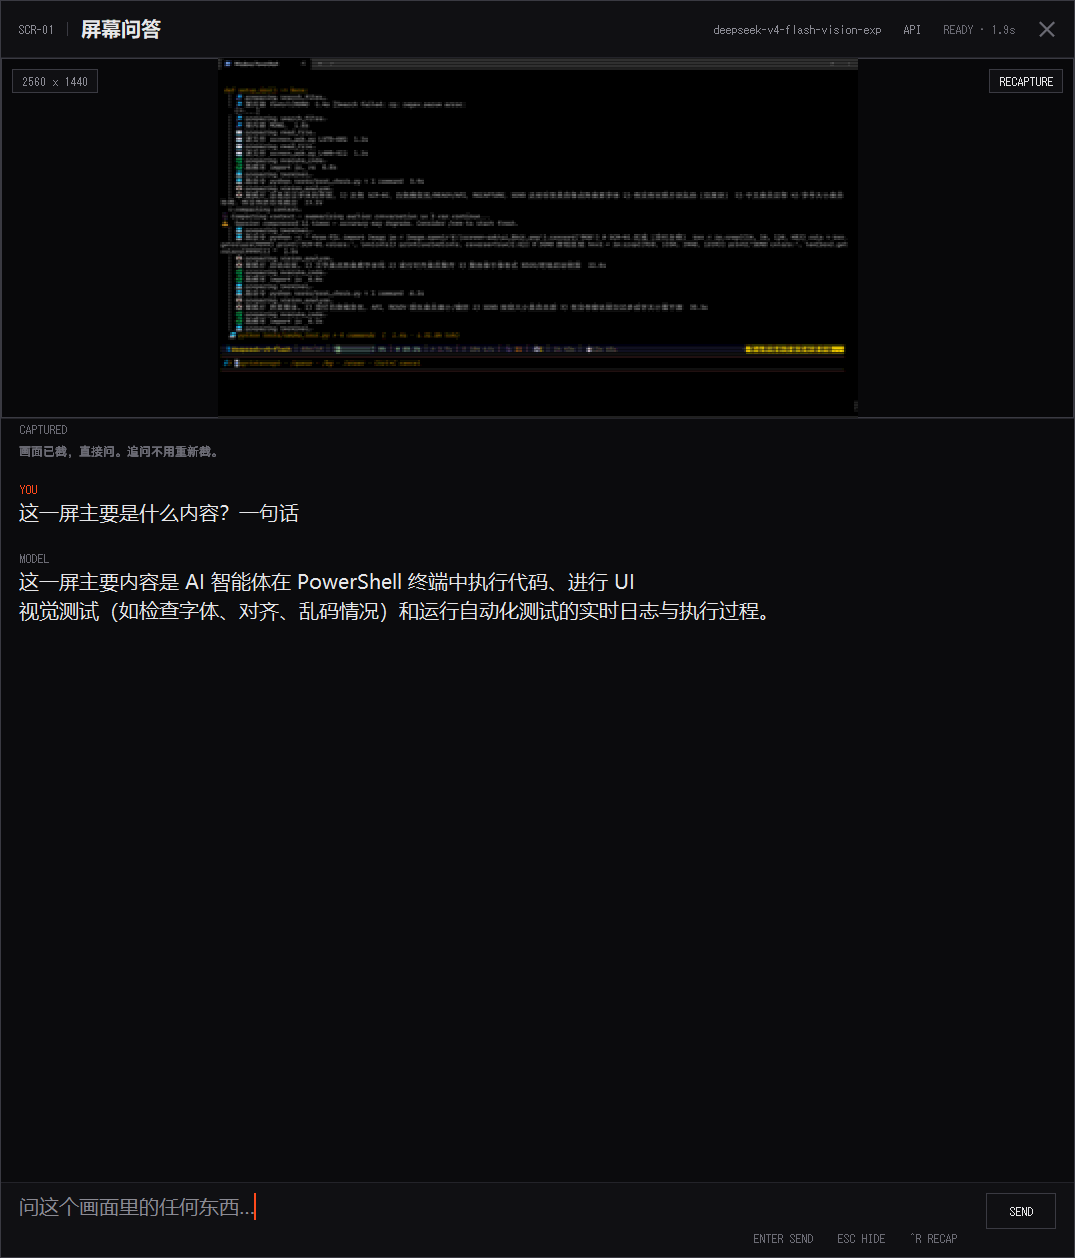
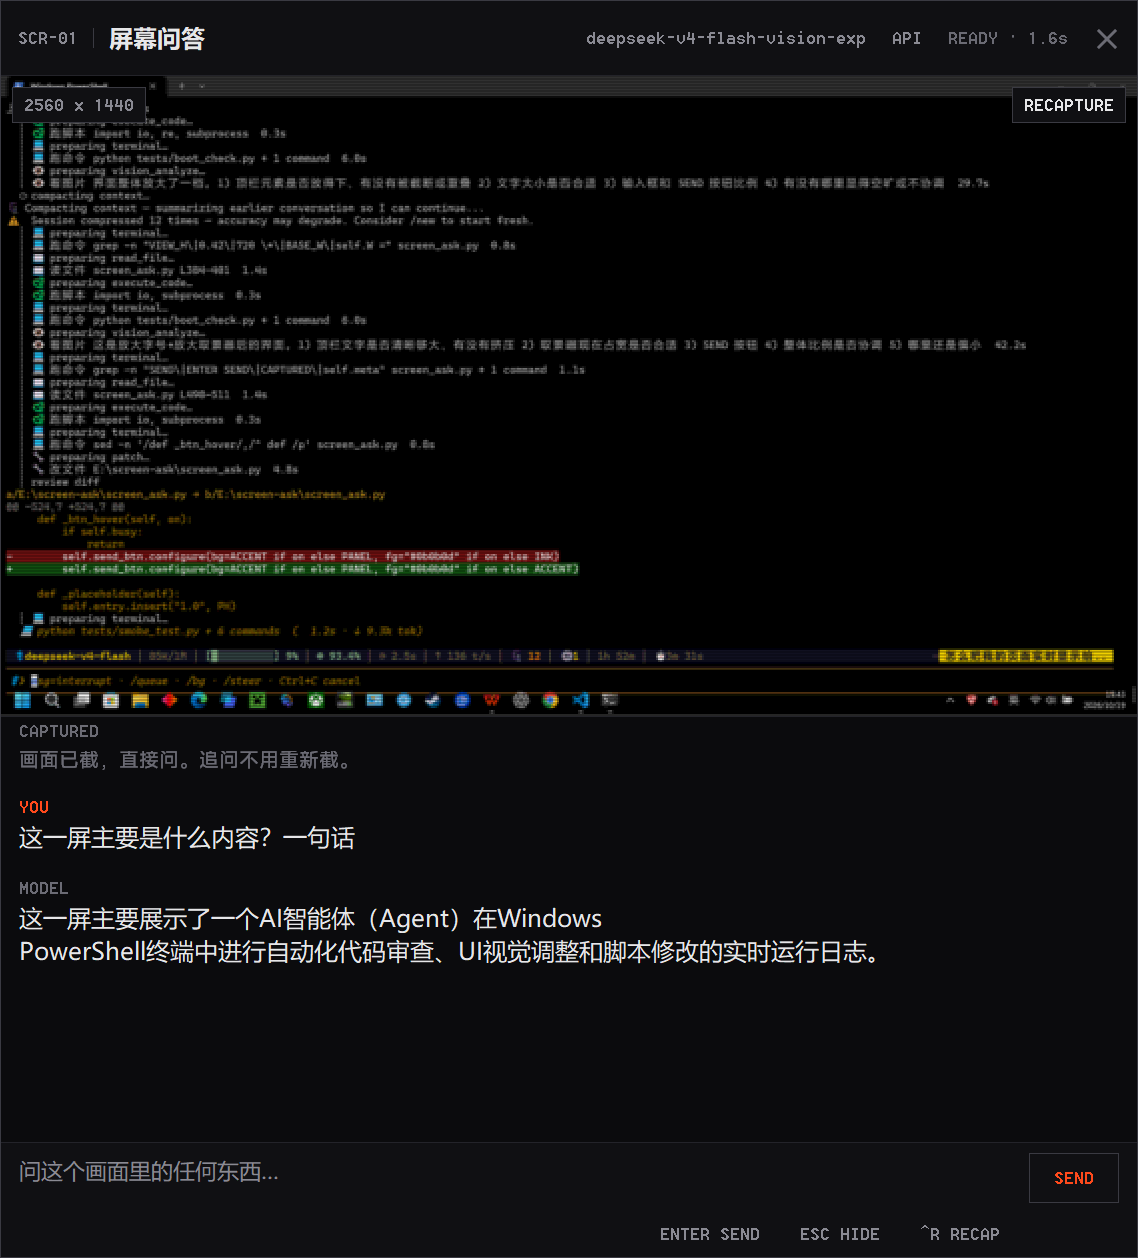
feat: larger dot-matrix type (-20px), wider viewer 16:9, SEND emphasis

diff --git a/screen_ask.py b/screen_ask.py
@@ -55,7 +55,7 @@ ACCENT = "#ff4a1c"
 PH = "问这个画面里的任何东西…"
 
 # 基准尺寸（96 DPI 下的逻辑像素），实际窗口按屏幕与 DPI 自适应
-BASE_W, BASE_H = 720, 840
+BASE_W, BASE_H = 760, 840
 MIN_W, MIN_H = 520, 560
 
 FONT_STACK_SANS = (
@@ -71,7 +71,7 @@ FONT_STACK_MONO = (
 SANS = "TkDefaultFont"
 MONO = "TkFixedFont"
 PIX = ""          # 点阵字体，仅用于纯 ASCII 标签
-PIX_SZ = 7        # 像素单位（负数），不随 DPI 缩放，保住点阵
+PIX_SZ = -20      # 像素单位（负数），不随 DPI 缩放，保住点阵
 
 
 def init_fonts(root: tk.Misc) -> None:
@@ -93,7 +93,7 @@ def init_fonts(root: tk.Misc) -> None:
     # 点阵字体：Windows 的 Terminal 原生 8x12，只有 8pt / -12px 才不被抗锯齿
     pix = pick(("Terminal", "Fixedsys"), "")
     if pix:
-        PIX, PIX_SZ = pix, -12
+        PIX, PIX_SZ = pix, -20
     else:
         PIX, PIX_SZ = MONO, 7
 
@@ -386,10 +386,10 @@ class App:
         sh = self.root.winfo_screenheight()
         sc = self.scale
 
-        W = int(max(MIN_W, min(BASE_W * sc, sw * 0.42)))
+        W = int(max(MIN_W, min(BASE_W * sc, sw * 0.46)))
         H = int(max(MIN_H, min(BASE_H * sc, sh * 0.90)))
         self.W, self.H = W, H
-        self.VIEW_H = int(max(180, min(360, H * 0.36)))
+        self.VIEW_H = int(max(180, min(W * 9 / 16, H * 0.52)))
 
         x = max(16, sw - W - int(48 * sc))
         y = max(24, (sh - H) // 2)
@@ -408,24 +408,24 @@ class App:
         shell.pack(fill="both", expand=True, padx=1, pady=1)
 
         # --- 顶栏 ---
-        bar = tk.Frame(shell, bg=PANEL, height=int(38 * min(sc, 2)))
+        bar = tk.Frame(shell, bg=PANEL, height=int(50 * min(sc, 2)))
         bar.pack(fill="x")
         bar.pack_propagate(False)
 
         tk.Label(bar, text="SCR-01", bg=PANEL, fg=MUTED,
                  font=(PIX, PIX_SZ)).pack(side="left", padx=(14, 0))
-        tk.Frame(bar, bg=LINE2, width=1, height=14).pack(side="left", padx=10, pady=12)
+        tk.Frame(bar, bg=LINE2, width=1, height=20).pack(side="left", padx=12, pady=15)
         tk.Label(bar, text="屏幕问答", bg=PANEL, fg=INK,
-                 font=(SANS, 10, "bold")).pack(side="left")
+                 font=(SANS, 12, "bold")).pack(side="left")
 
-        close = tk.Label(bar, text="✕", bg=PANEL, fg=DIM, font=(MONO, 10), cursor="hand2")
+        close = tk.Label(bar, text="✕", bg=PANEL, fg=DIM, font=(MONO, 13), cursor="hand2")
         close.pack(side="right", padx=(0, 14))
         self.status = tk.Label(bar, text="READY", bg=PANEL, fg=MUTED, font=(PIX, PIX_SZ))
-        self.status.pack(side="right", padx=(0, 16))
+        self.status.pack(side="right", padx=(0, 20))
         self.api_lbl = tk.Label(bar, text="API", bg=PANEL, fg=MUTED, font=(PIX, PIX_SZ), cursor="hand2")
-        self.api_lbl.pack(side="right", padx=(0, 16))
+        self.api_lbl.pack(side="right", padx=(0, 20))
         self.model_lbl = tk.Label(bar, text=self._model_text(), bg=PANEL, fg=MUTED, font=(PIX, PIX_SZ))
-        self.model_lbl.pack(side="right", padx=(0, 16))
+        self.model_lbl.pack(side="right", padx=(0, 20))
 
         self.api_lbl.bind("<Button-1>", lambda e: self._open_api_panel())
         self.api_lbl.bind("<Enter>", lambda e: self.api_lbl.configure(fg=ACCENT))
@@ -451,13 +451,13 @@ class App:
 
         dw = tk.Frame(self.view, bg=LINE2)
         dw.place(x=10, y=10)
-        self.dim_tag = tk.Label(dw, text="--", bg=PANEL, fg=MUTED, font=(PIX, PIX_SZ), padx=7, pady=3)
+        self.dim_tag = tk.Label(dw, text="--", bg=PANEL, fg=MUTED, font=(PIX, PIX_SZ), padx=9, pady=5)
         self.dim_tag.pack(padx=1, pady=1)
 
         rw = tk.Frame(self.view, bg=LINE2)
         rw.place(relx=1.0, x=-10, y=10, anchor="ne")
         self.recap = tk.Label(rw, text="RECAPTURE", bg=PANEL, fg=INK, font=(PIX, PIX_SZ),
-                              padx=7, pady=3, cursor="hand2")
+                              padx=9, pady=5, cursor="hand2")
         self.recap.pack(padx=1, pady=1)
         self.recap.bind("<Button-1>", lambda e: self.resnap())
         self.recap.bind("<Enter>", lambda e: self.recap.configure(bg=ACCENT, fg="#0b0b0d"))
@@ -467,13 +467,13 @@ class App:
 
         # --- 对话流 ---
         self.text = tk.Text(shell, bg=BG, fg=INK, bd=0, highlightthickness=0,
-                            wrap="word", height=6, font=(SANS, 10),
+                            wrap="word", height=6, font=(SANS, 12),
                             padx=18, pady=4, spacing1=0, spacing2=2, spacing3=0,
                             insertbackground=ACCENT, cursor="arrow")
         self.text.pack(fill="both", expand=True)
         self.text.tag_configure("you", font=(PIX, PIX_SZ), foreground=ACCENT, spacing1=16)
         self.text.tag_configure("ai", font=(PIX, PIX_SZ), foreground=DIM, spacing1=16)
-        self.text.tag_configure("body", font=(SANS, 10), foreground=INK,
+        self.text.tag_configure("body", font=(SANS, 12), foreground=INK,
                                 spacing1=4, spacing3=10, lmargin1=0, lmargin2=0)
         self.text.tag_configure("meta", font=(PIX, PIX_SZ), foreground=DIM, spacing3=10)
         self.text.tag_configure("err", font=(MONO, 8), foreground=ACCENT, spacing3=10)
@@ -486,7 +486,7 @@ class App:
         foot.pack(fill="x")
 
         self.entry = tk.Text(foot, bg=PANEL, fg=INK, bd=0, highlightthickness=0,
-                             height=2, width=1, font=(SANS, 10), padx=18, pady=10,
+                             height=3, width=1, font=(SANS, 11), padx=18, pady=12,
                              insertbackground=ACCENT, wrap="word",
                              selectbackground=LINE2, selectforeground=INK)
         self.entry.pack(side="left", fill="both", expand=True)
@@ -498,15 +498,15 @@ class App:
 
         btnwrap = tk.Frame(foot, bg=LINE2)
         btnwrap.pack(side="right", padx=(8, 18), pady=(10, 0), anchor="n")
-        self.send_btn = tk.Label(btnwrap, text="SEND", bg=PANEL, fg=INK,
-                                 font=(PIX, -12), padx=20, pady=9, cursor="hand2")
+        self.send_btn = tk.Label(btnwrap, text="SEND", bg=PANEL, fg=ACCENT,
+                                 font=(PIX, PIX_SZ), padx=22, pady=12, cursor="hand2")
         self.send_btn.pack(padx=1, pady=1)
         self.send_btn.bind("<Button-1>", lambda e: self._on_send())
         self.send_btn.bind("<Enter>", lambda e: self._btn_hover(True))
         self.send_btn.bind("<Leave>", lambda e: self._btn_hover(False))
 
-        tk.Label(foot, text="ENTER SEND    ESC HIDE    ^R RECAP", bg=PANEL, fg=DIM,
-                 font=(PIX, -12)).pack(side="bottom", anchor="w", padx=18, pady=(0, 10))
+        tk.Label(foot, text="ENTER SEND    ESC HIDE    ^R RECAP", bg=PANEL, fg=MUTED,
+                 font=(PIX, PIX_SZ)).pack(side="bottom", anchor="w", padx=18, pady=(0, 10))
 
         win.bind("<Escape>", lambda e: (self._close_panel() if self.panel else self.hide()))
         win.bind("<Control-r>", lambda e: self.resnap())
@@ -524,7 +524,7 @@ class App:
     def _btn_hover(self, on):
         if self.busy:
             return
-        self.send_btn.configure(bg=ACCENT if on else PANEL, fg="#0b0b0d" if on else INK)
+        self.send_btn.configure(bg=ACCENT if on else PANEL, fg="#0b0b0d" if on else ACCENT)
 
     def _placeholder(self):
         self.entry.insert("1.0", PH)
@@ -583,7 +583,7 @@ class App:
         zoom_lbl.pack(side="right", padx=(0, 14))
         if vw >= 900:
             tk.Label(head, text="SCROLL ZOOM / DRAG PAN / DBLCLICK FIT", bg=PANEL, fg=LINE2,
-                     font=(PIX, -12)).pack(side="right", padx=(0, 12))
+                     font=(PIX, PIX_SZ)).pack(side="right", padx=(0, 12))
         cls = tk.Label(head, text="✕", bg=PANEL, fg=DIM, font=(MONO, 10), cursor="hand2")
         cls.pack(side="right", padx=(0, 10))
         cls.bind("<Button-1>", lambda e: top.destroy())
@@ -745,14 +745,14 @@ class App:
                              bg=PANEL, fg=DIM, font=(MONO, 7))
         self.pmsg.pack(side="left")
         applyb = tk.Label(row, text="APPLY", bg=ACCENT, fg="#0b0b0d",
-                          font=(PIX, -12), padx=20, pady=7, cursor="hand2")
+                          font=(PIX, PIX_SZ), padx=22, pady=9, cursor="hand2")
         applyb.pack(side="right")
         applyb.bind("<Button-1>", lambda e: self._apply_config())
 
         body = tk.Frame(p, bg=BG)
         body.pack(fill="both", expand=True, padx=18, pady=16)
 
-        tk.Label(body, text="PROVIDER", bg=BG, fg=DIM, font=(PIX, -12)).pack(anchor="w")
+        tk.Label(body, text="PROVIDER", bg=BG, fg=DIM, font=(PIX, PIX_SZ)).pack(anchor="w")
         tabs = tk.Frame(body, bg=BG)
         tabs.pack(anchor="w", pady=(6, 18))
         self.pv = tk.StringVar(value=PROVIDER)
@@ -767,11 +767,11 @@ class App:
             self.tab_map[key] = lb
 
         def field(label, default, show=None):
-            tk.Label(body, text=label, bg=BG, fg=DIM, font=(PIX, -12)).pack(anchor="w", pady=(0, 4))
+            tk.Label(body, text=label, bg=BG, fg=DIM, font=(PIX, PIX_SZ)).pack(anchor="w", pady=(0, 4))
             wrap = tk.Frame(body, bg=LINE)
             wrap.pack(fill="x", pady=(0, 14))
             e = tk.Entry(wrap, bg=PANEL, fg=INK, bd=0, highlightthickness=0,
-                         font=(MONO, 9), insertbackground=ACCENT, show=show,
+                         font=(SANS, 12), insertbackground=ACCENT, show=show,
                          disabledbackground=SUNK, disabledforeground=DIM,
                          readonlybackground=SUNK, selectbackground=LINE2)
             e.pack(fill="x", padx=1, pady=1, ipady=6)
@@ -932,7 +932,7 @@ class App:
             frame = self._crt_base.copy()
             draw_scanlines(frame, self._crt_phase)
             self._paint(frame)
-        self.root.after(190, self._crt_tick)
+        self.root.after(260, self._crt_tick)
 
     # ---------------- 开机动画 ----------------
     def boot_then_capture(self):
@@ -944,13 +944,13 @@ class App:
         cover = tk.Frame(self.win, bg=BG)
         cover.place(x=0, y=0, relwidth=1, relheight=1)
         t = tk.Text(cover, bg=BG, fg=MUTED, bd=0, highlightthickness=0,
-                    font=(PIX, -12), padx=26, pady=22, spacing1=3, spacing3=3,
+                    font=(PIX, PIX_SZ), padx=26, pady=22, spacing1=3, spacing3=3,
                     cursor="arrow")
         t.pack(fill="both", expand=True)
         t.configure(state="disabled")
-        t.tag_configure("hdr", foreground=ACCENT, font=(PIX, -12))
-        t.tag_configure("dim", foreground=LINE2, font=(PIX, -12))
-        t.tag_configure("ok", foreground=DIM, font=(PIX, -12))
+        t.tag_configure("hdr", foreground=ACCENT, font=(PIX, PIX_SZ))
+        t.tag_configure("dim", foreground=LINE2, font=(PIX, PIX_SZ))
+        t.tag_configure("ok", foreground=DIM, font=(PIX, PIX_SZ))
         t.tag_configure("bar", foreground=ACCENT)
 
         rows = [
@@ -1150,7 +1150,7 @@ class App:
                 elif kind == "done":
                     self.messages.append({"role": "assistant", "content": payload})
                     self.busy = False
-                    self.send_btn.configure(bg=PANEL, fg=INK, text="SEND")
+                    self.send_btn.configure(bg=PANEL, fg=ACCENT, text="SEND")
                     el = time.time() - self.t0
                     if not payload:
                         self._insert("(空回复)\n", "err")
@@ -1159,7 +1159,7 @@ class App:
                     self.set_status("READY · %.1fs" % el, DIM)
                 elif kind == "err":
                     self.busy = False
-                    self.send_btn.configure(bg=PANEL, fg=INK, text="SEND")
+                    self.send_btn.configure(bg=PANEL, fg=ACCENT, text="SEND")
                     self._insert("\n" + payload + "\n", "err")
                     self.set_status("ERROR", ACCENT)
         except queue.Empty:
